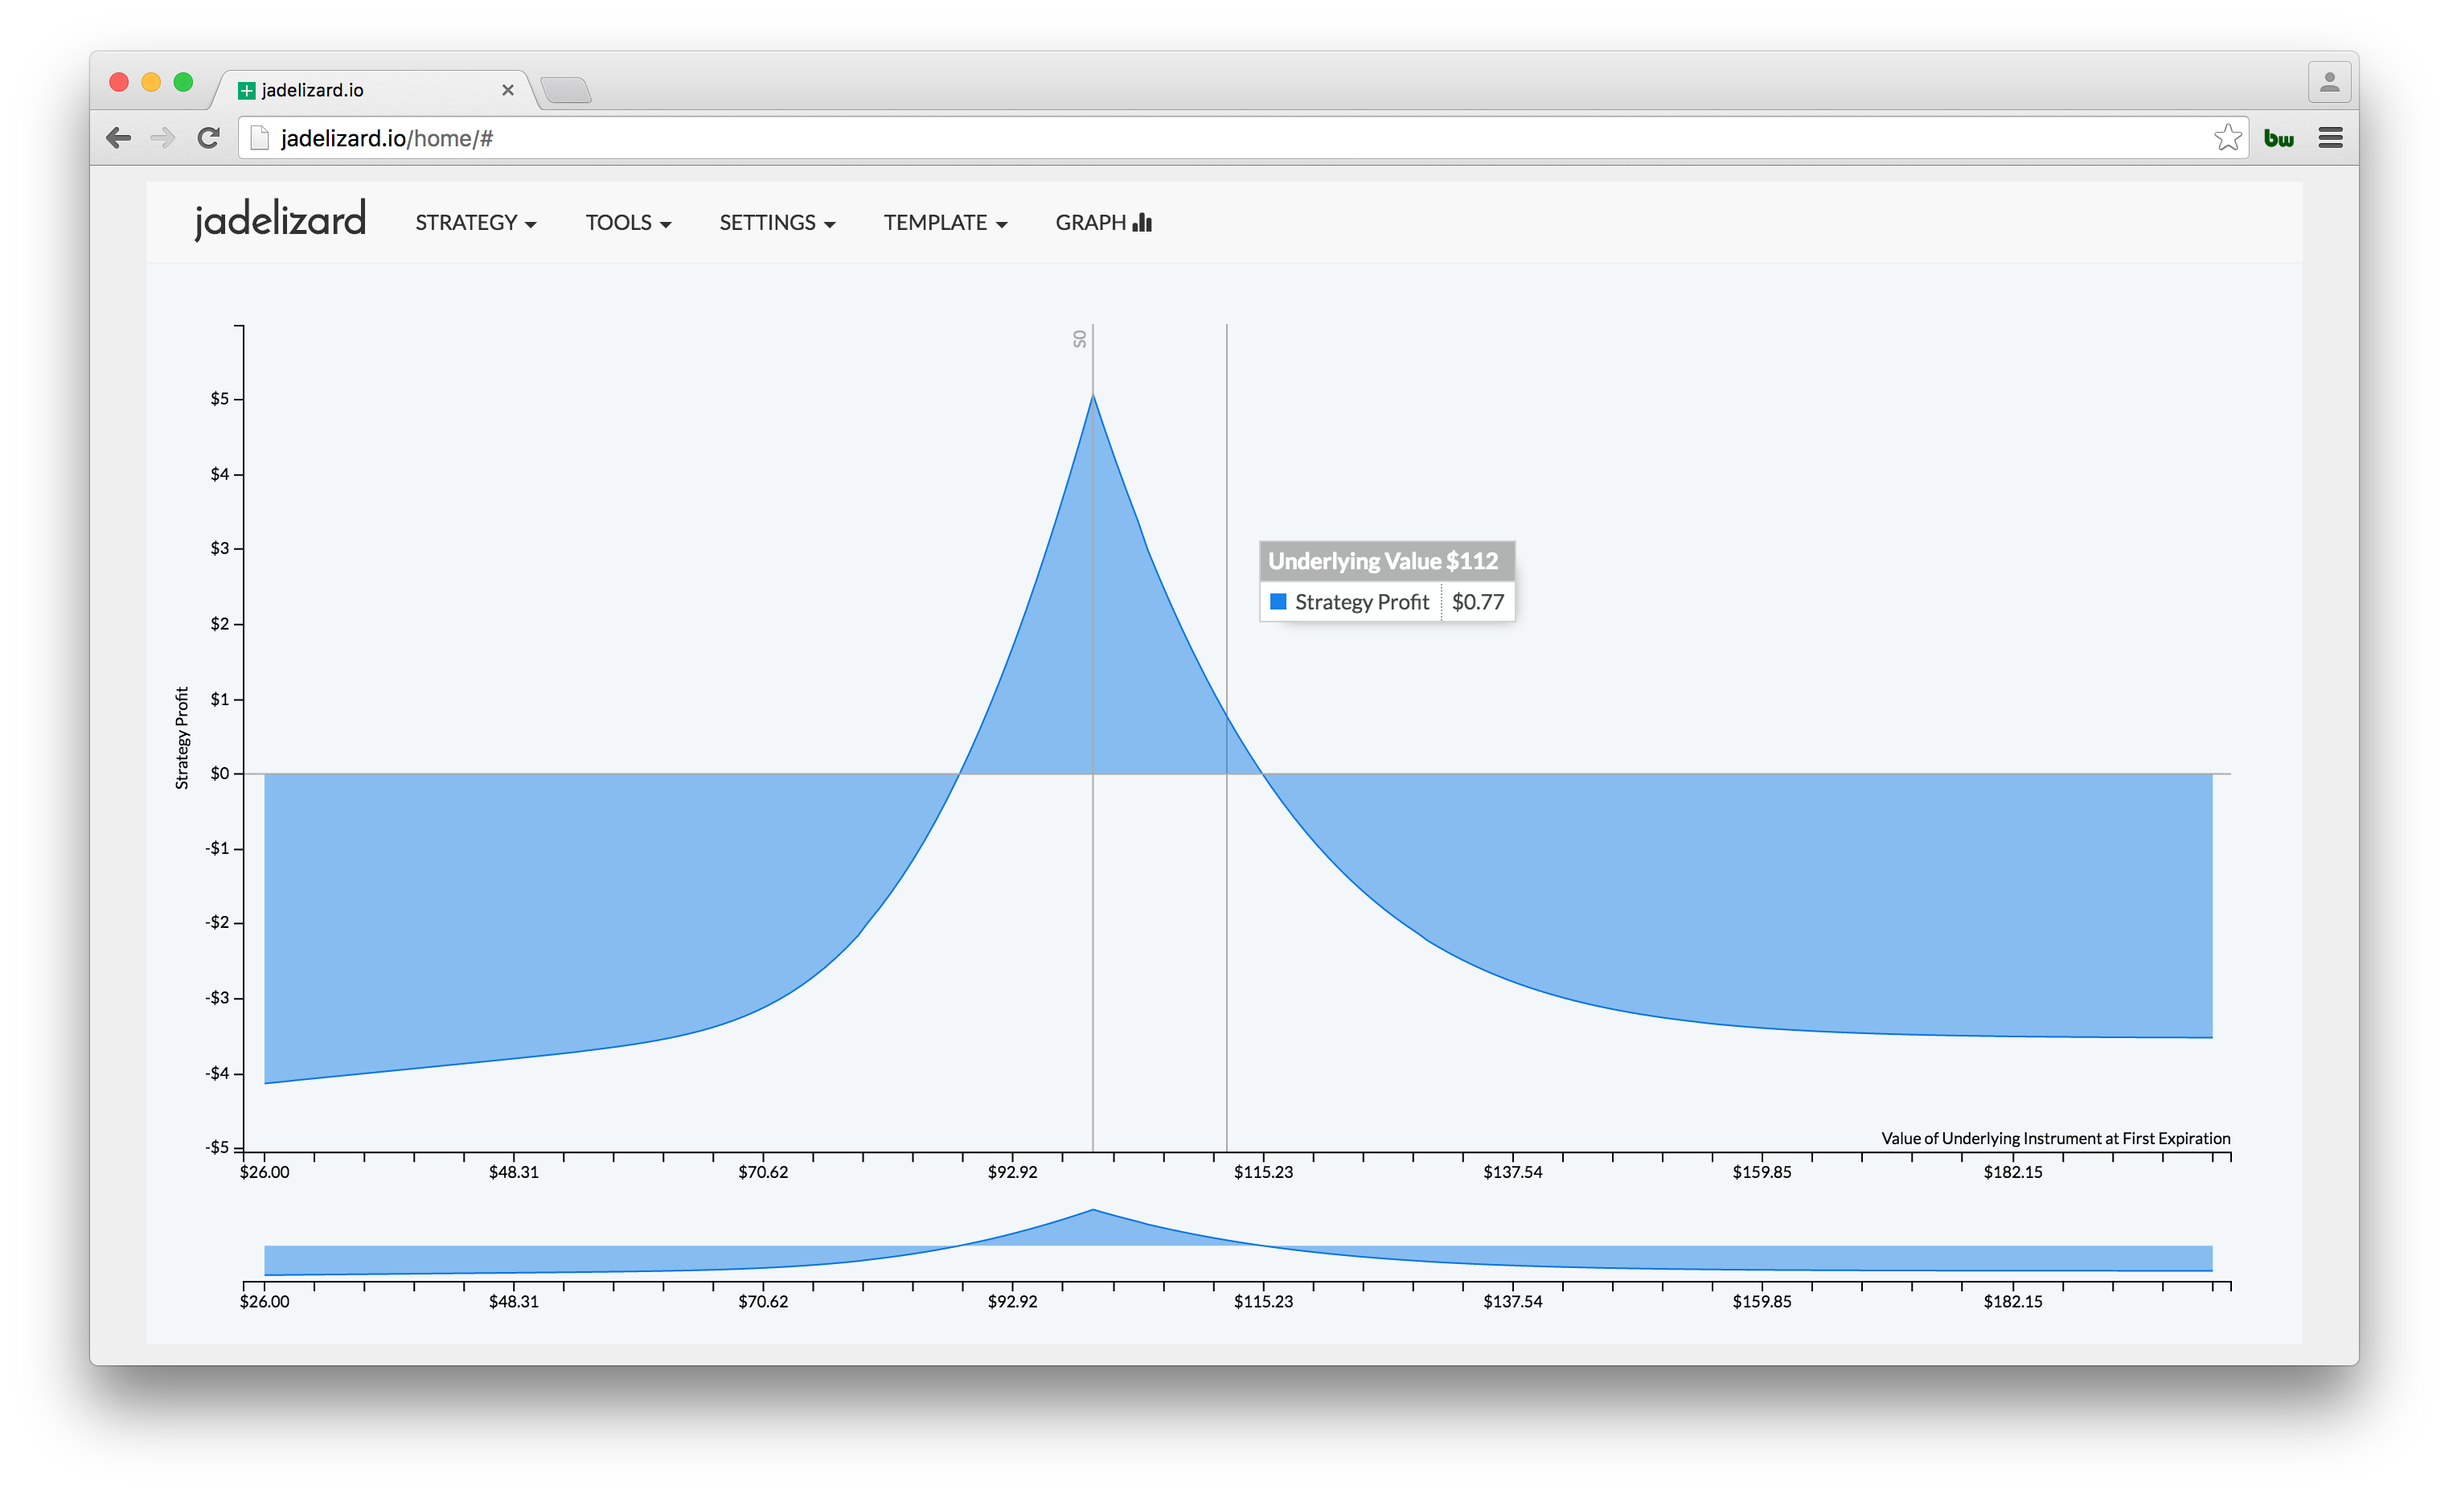
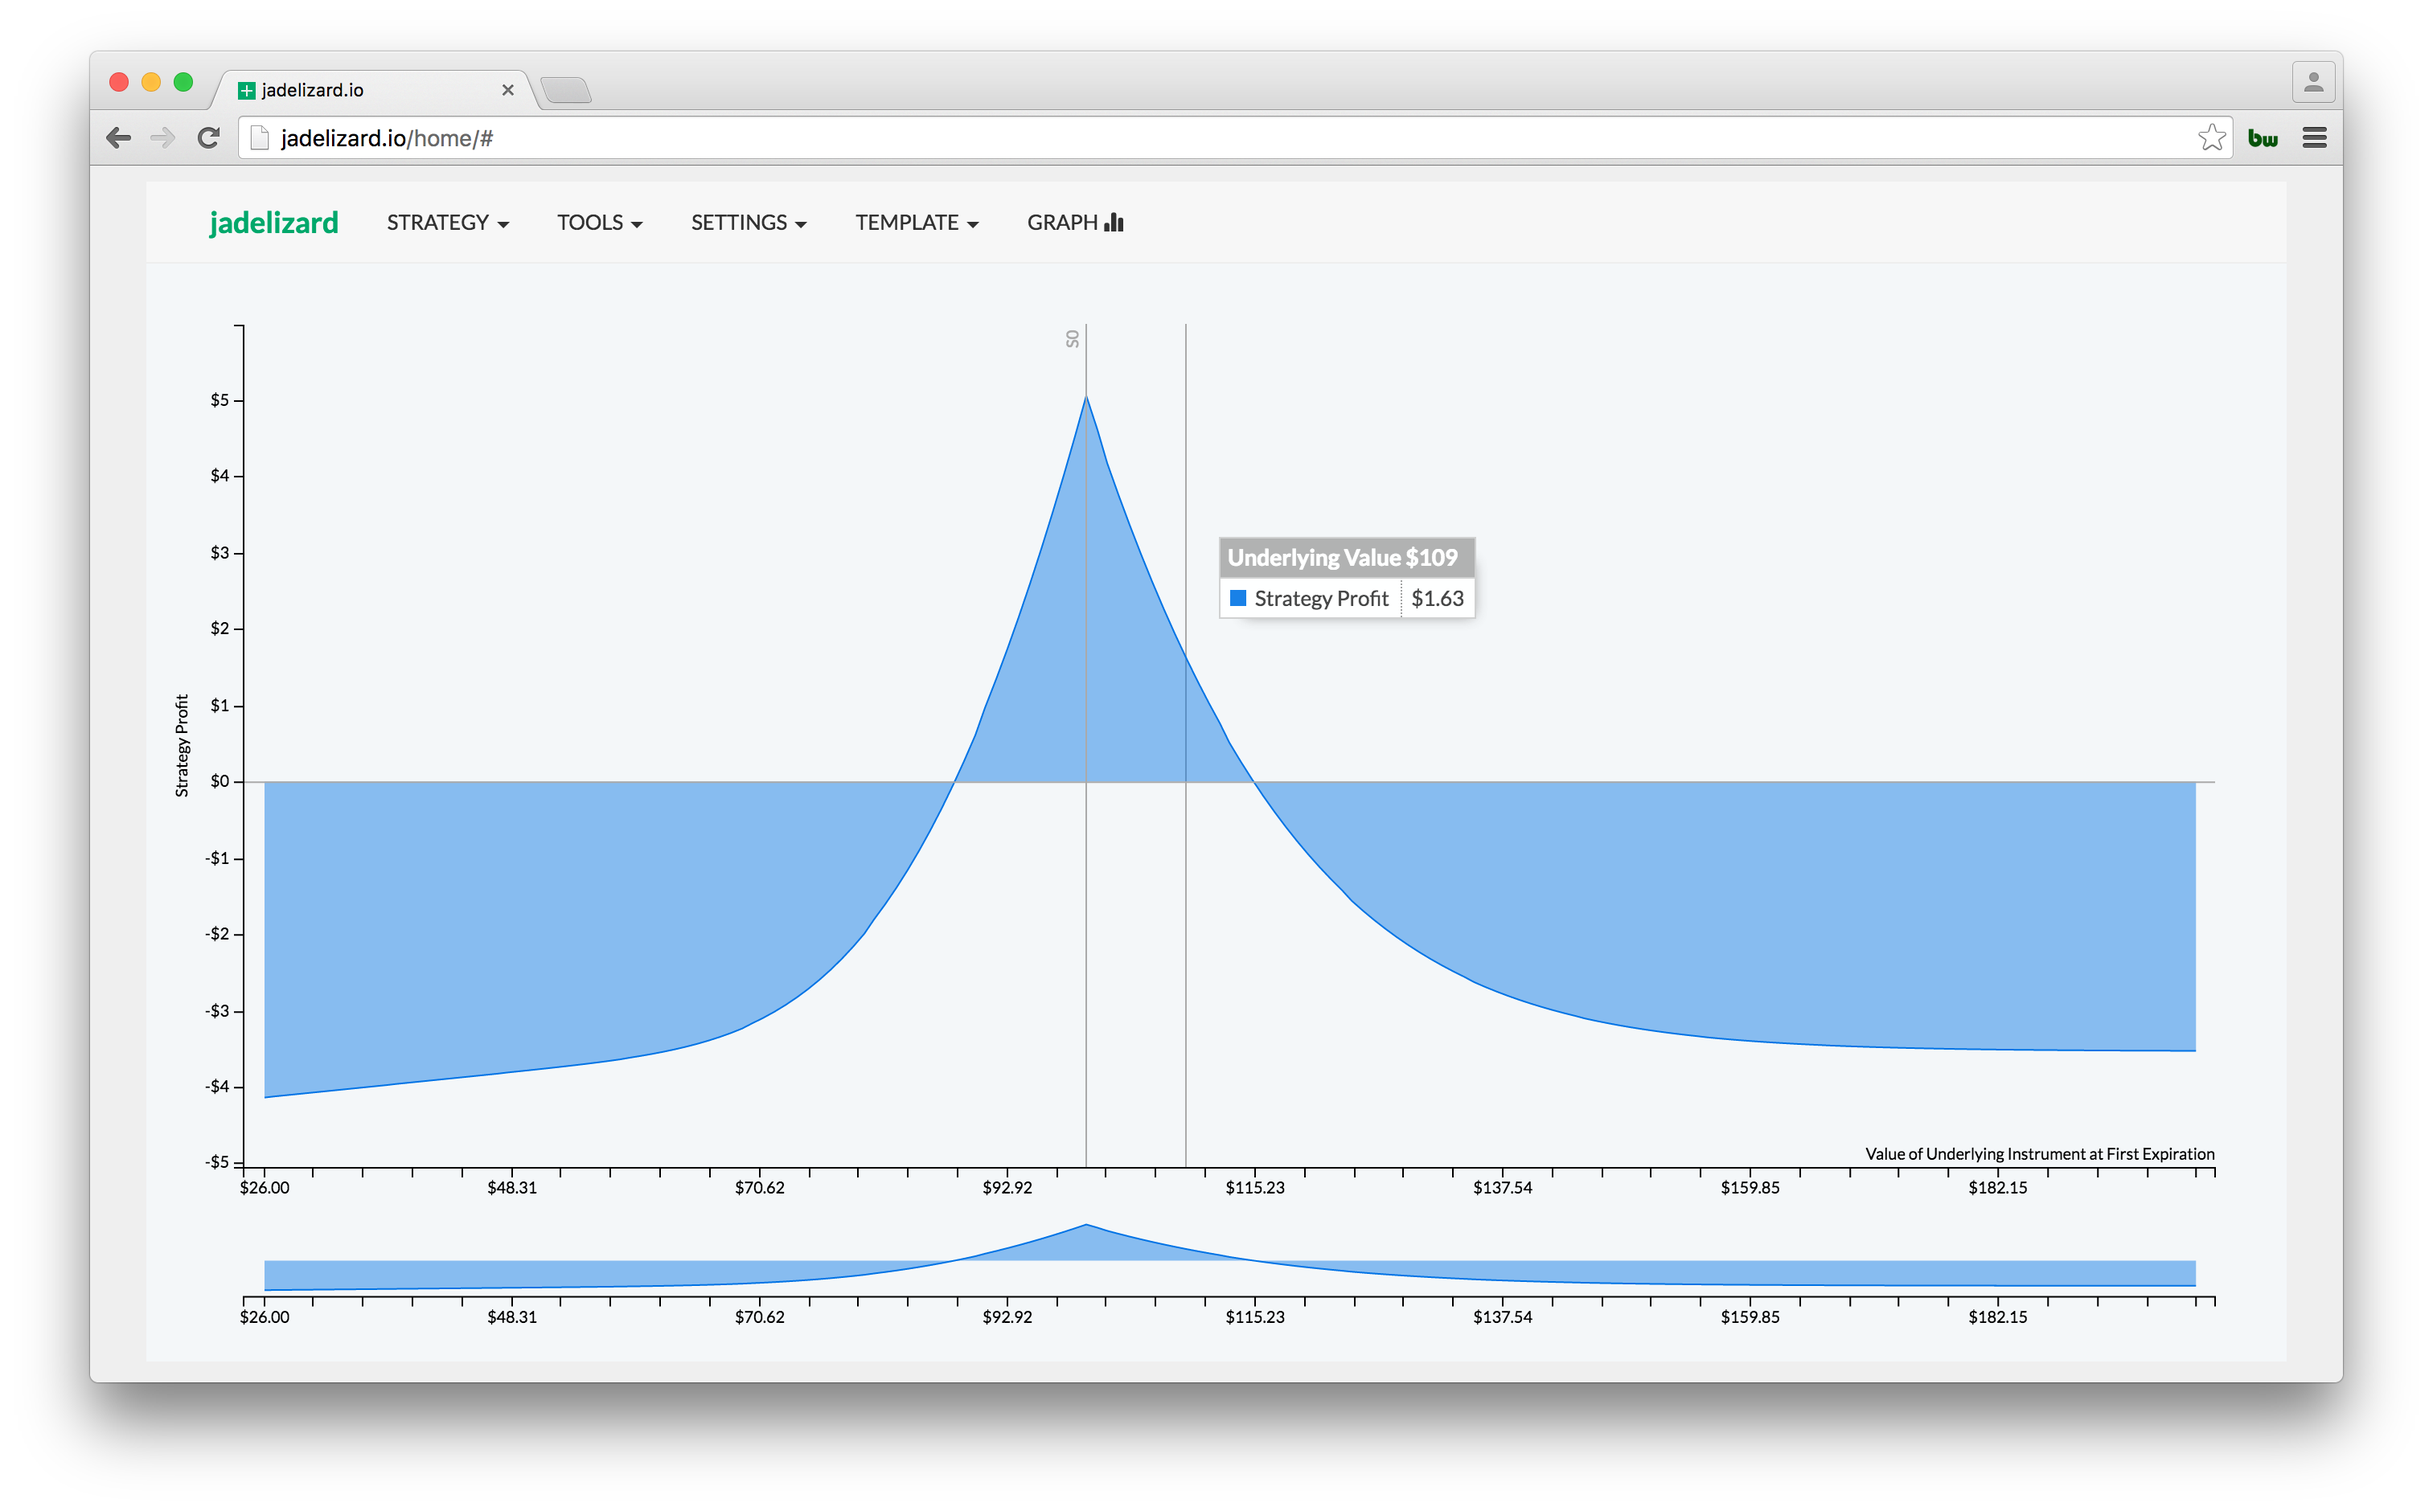
nav fade

diff --git a/options/templates/options/base.html b/options/templates/options/base.html
@@ -12,7 +12,6 @@
 		<link rel="stylesheet" type="text/css" href="{% static 'options/css/nav.css' %}">
 		<link rel="stylesheet" type="text/css" href="{% static 'options/css/legs_form.css' %}">
 		<link rel="stylesheet" type="text/css" href="{% static 'options/css/browser_message.css' %}">
-		<link href='http://fonts.googleapis.com/css?family=Josefin+Sans&subset=latin,latin-ext' rel='stylesheet' type='text/css'>
 		<link href='https://fonts.googleapis.com/css?family=Lato:700,700italic,400' rel='stylesheet' type='text/css'>
 		<script src="https://code.jquery.com/jquery-2.2.3.js" integrity="sha256-laXWtGydpwqJ8JA+X9x2miwmaiKhn8tVmOVEigRNtP4=" 
 		crossorigin="anonymous"></script>

diff --git a/options/static/options/css/nav.css b/options/static/options/css/nav.css
@@ -27,7 +27,7 @@
 	color: #00a86b;
 	font-family: 'Lato', sans-serif!important;
 	font-size: 1.3em;
-	font-weight: 900;
+	font-weight: bold;
 	padding-left: 1.35em;
 }
 
